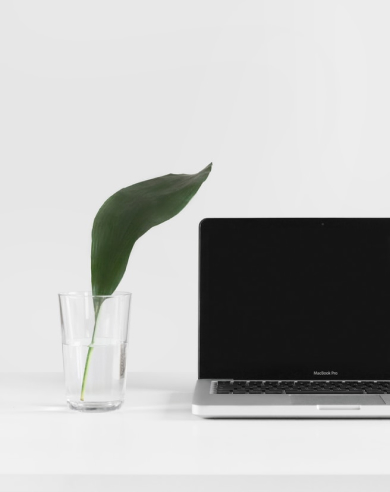
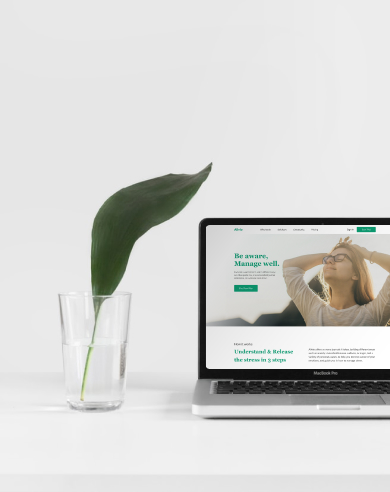
section Steps

Changed region(s): [[0.5231, 0.4573, 1.0, 0.7622]]

diff --git a/index.html b/index.html
@@ -41,7 +41,7 @@
     </div>
   </header>
   <main>
-    <section class="home none">
+    <section class="home">
       <div class="container">
         <div class="home-content">
           <h1 class="home-heading">Be aware, Manage well.</h1>
@@ -79,7 +79,34 @@
                 Answer a quick survey about how you express yourself, what causes you stress, and what area would you like to work on. This way, we can fully personalize your journal!
               </p>
             </div>
-            <img class="step-img" src="./img/imgSteps/01.jpg" alt="foto step first">
+            <div class="step-img-wrapper">
+              <img class="step-img" src="./img/imgSteps/01.jpg" alt="foto step first">
+            </div>
+
+            </div>
+            <div class="step">
+              <h3 class="step-heading" data-number="02">Write & Understand</h3>
+               <div class="step-text">
+              <p>
+                Write, draw, reflect, understand. Alivio will guide you through the prompts and will help you manage your stress!
+              </p>
+            </div>
+            <div class="step-img-wrapper">
+              <img class="step-img" src="./img/imgSteps/02.jpg" alt="foto step first">
+            </div>
+
+            </div>
+            <div class="step">
+              <h3 class="step-heading" data-number="03">Alivio!</h3>
+               <div class="step-text">
+              <p>
+                Now you are aware, and have a way to manage and overcome your own stress. What are you waiting for? Alivio today!
+              </p>
+            </div>
+            <div class="step-img-wrapper">
+              <img class="step-img" src="./img/imgSteps/03jpg.jpg" alt="foto step first">
+            </div>
+
             </div>
         </div>
       </div>

diff --git a/css/blocks/how-it-works.css b/css/blocks/how-it-works.css
@@ -38,12 +38,22 @@
 
 
 .how-it-works-steps {
-
+  display: grid;
+  grid-template-columns: repeat(auto-fit, 390px);
+  column-gap: 95px;
 }
 
 .step {
   max-width: 390px;
 
+}
+
+.step:nth-child(2) {
+  padding-top: 287px;
+}
+
+.step:nth-child(3) {
+  padding-top: 54px;
 }
 
 .step-heading {
@@ -81,7 +91,15 @@
 
 }
 
+.step-img-wrapper {
+  position: relative;
+  padding-bottom: 126%;
+}
+
 .step-img {
+position: absolute;
+left: 0;
+top: 0;
 width: 100%;
 height: auto;
 object-fit: cover;
